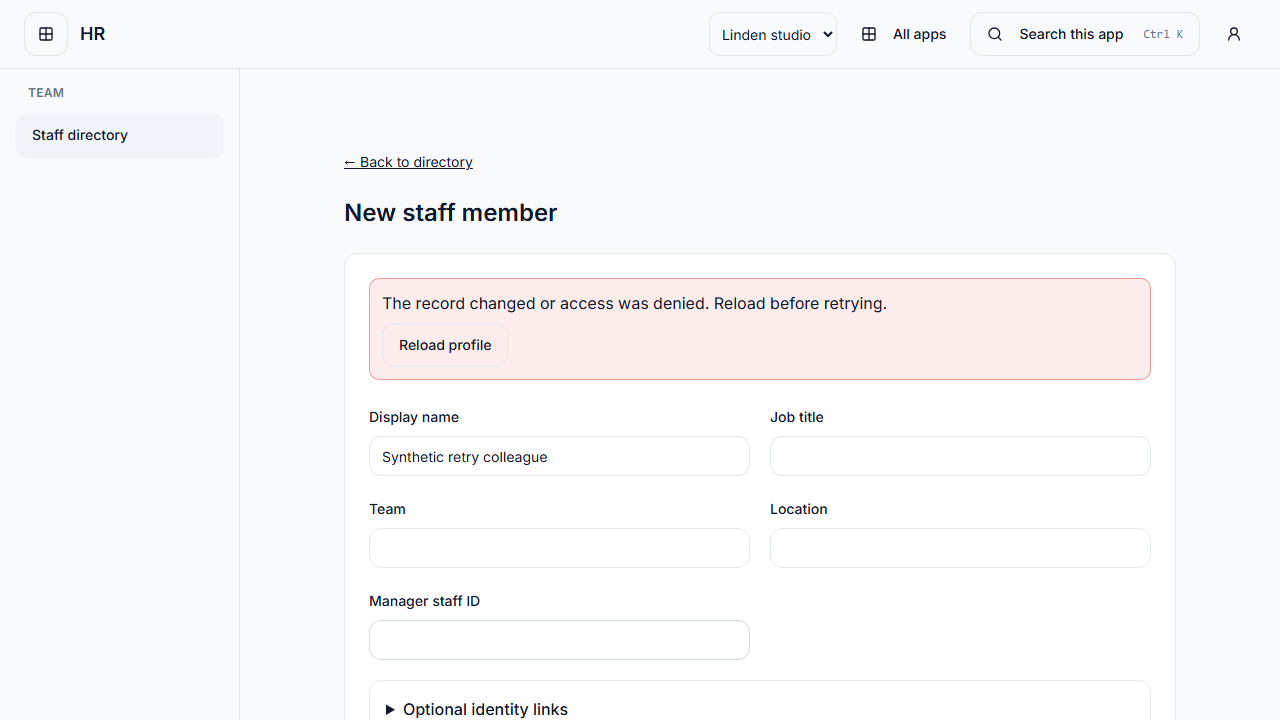
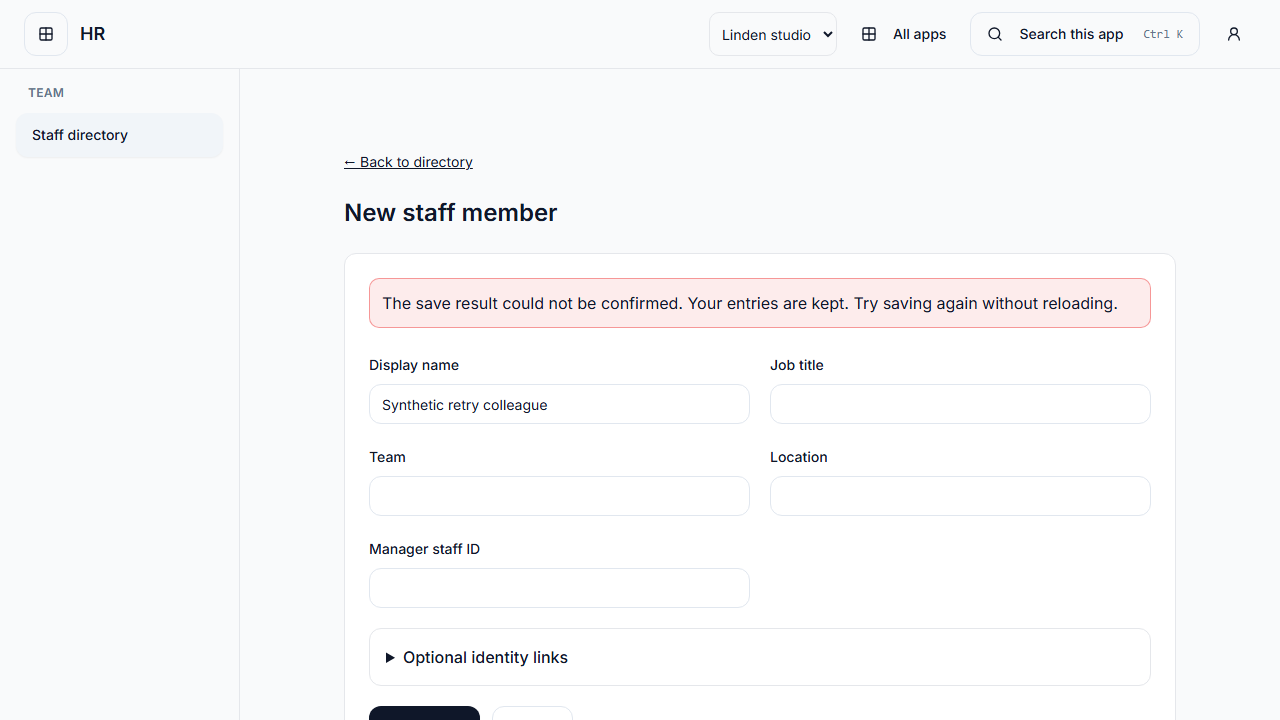
fix(hr): explain uncertain saves without discarding retained entries (#397)

diff --git a/packages/web-features/src/modules/people/people-copy.ts b/packages/web-features/src/modules/people/people-copy.ts
@@ -48,6 +48,8 @@ export const peopleCopy = {
     page: "Page",
     total: "staff members",
     changed: "The record changed or access was denied. Reload before retrying.",
+    saveRetry:
+      "The save result could not be confirmed. Your entries are kept. Try saving again without reloading.",
     linkConflict:
       "Another staff profile already uses this identity link. Change or remove it, then save again.",
     reload: "Reload profile",
@@ -108,6 +110,8 @@ export const peopleCopy = {
     page: "Seite",
     total: "Personen",
     changed: "Daten geändert oder Zugriff verweigert. Vor erneutem Versuch neu laden.",
+    saveRetry:
+      "Das Speicherergebnis konnte nicht bestätigt werden. Deine Eingaben bleiben erhalten. Versuche erneut zu speichern, ohne neu zu laden.",
     linkConflict:
       "Diese Identitätsverknüpfung wird bereits von einem anderen Personalprofil verwendet. Ändern oder entfernen Sie sie und speichern Sie erneut.",
     reload: "Profil neu laden",
@@ -167,6 +171,8 @@ export const peopleCopy = {
     page: "Trang",
     total: "nhân viên",
     changed: "Dữ liệu đã thay đổi hoặc quyền bị từ chối. Tải lại trước khi thử lại.",
+    saveRetry:
+      "Chưa thể xác nhận kết quả lưu. Nội dung đã nhập vẫn được giữ. Hãy thử lưu lại mà không tải lại trang.",
     linkConflict:
       "Liên kết danh tính này đã được hồ sơ nhân viên khác sử dụng. Hãy sửa hoặc xóa liên kết rồi lưu lại.",
     reload: "Tải lại hồ sơ",

diff --git a/packages/web-features/src/modules/people/staff-profile-form.tsx b/packages/web-features/src/modules/people/staff-profile-form.tsx
@@ -80,11 +80,19 @@ export function StaffProfileForm({
         error.body !== null &&
         "code" in error.body &&
         error.body.code === StaffIdentityLinkConflictCode;
-      setBlocked(
-        error instanceof HttpError &&
-          (error.status === 403 || (error.status === 409 && !linkConflict))
-      );
-      setError({ message: linkConflict ? t.linkConflict : t.changed, reload: !linkConflict });
+      const status =
+        typeof error === "object" &&
+        error !== null &&
+        "status" in error &&
+        typeof error.status === "number"
+          ? error.status
+          : 0;
+      const recoverable = status === 0 || status === 429 || status >= 500;
+      setBlocked(status === 403 || (status === 409 && !linkConflict));
+      setError({
+        message: recoverable ? t.saveRetry : linkConflict ? t.linkConflict : t.changed,
+        reload: !recoverable && !linkConflict,
+      });
     } finally {
       if (mounted.current) {
         setBusy(false);

diff --git a/apps/e2e/tests/focused-hr/focused-hr.spec.ts b/apps/e2e/tests/focused-hr/focused-hr.spec.ts
@@ -125,6 +125,8 @@ for (const failure of ["503", "network"] as const) {
     await page.getByLabel("Display name", { exact: true }).fill("Synthetic retry colleague");
     await page.getByRole("button", { name: "Save profile", exact: true }).click();
     await expect(page.getByRole("alert")).toBeVisible();
+    await expect(page.getByRole("alert")).toContainText("save result could not be confirmed");
+    await expect(page.getByRole("button", { name: "Reload profile", exact: true })).toHaveCount(0);
     await expect(page.getByLabel("Display name", { exact: true })).toHaveValue(
       "Synthetic retry colleague"
     );

diff --git a/docs/tasks/397-focused-hr.md b/docs/tasks/397-focused-hr.md
@@ -54,3 +54,5 @@ limits above remain explicit. No merge or release performed.
 - Fresh checks: HR browser **10 passed**, People unit **33 passed**, shared session/adapter/provider **37 passed**; HR typecheck/build passed (existing chunk-size warning retained). Scoped lint/format checked. No API/domain/storage behavior changed and no database tests were needed for this transport/UI correction.
 - Self-review traced HTTP, network and body-stream errors through the existing local failure option, confirmed permission discovery still fails closed, and checked that no automatic command retry was added.
 - Synthetic desktop recovery state was visually inspected: [retained HR save draft](../frontend/images/focused-hr/hr-recoverable-save.png). The original form stays editable with its local error; no personnel data or credentials were used.
+
+Visual follow-up removed the misleading reload instruction for uncertain saves. EN/DE/VI copy now explains that entries are retained and saving can be retried without reloading; stale-version conflicts remain blocked until reload. HR browser 10/10, People units 33/33 and HR typecheck passed again after this correction.
